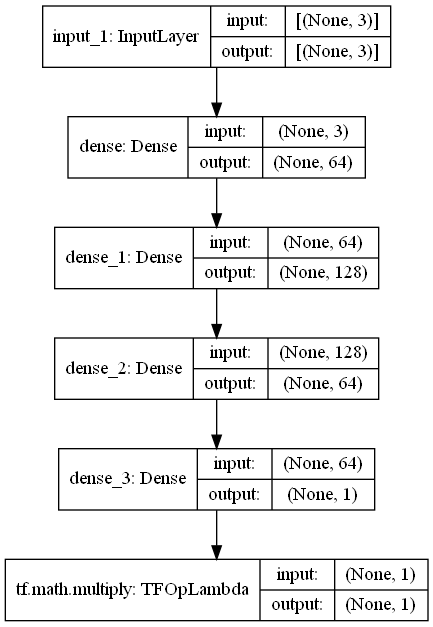
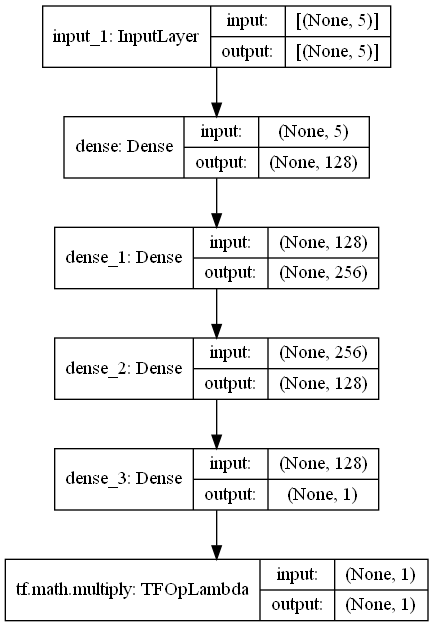
Implement two wheels

diff --git a/main.py b/main.py
@@ -116,7 +116,7 @@ class OUActionNoise:
 def policy(state, noise_object):
     sampled_actions = tf.squeeze(actor_model(state))
     if training:
-        noise = np.clip(noise_object(), -0.3, 0.3)
+        noise = np.clip(noise_object(), -1, 1)
         sampled_actions = (sampled_actions.numpy() + noise + np.random.normal(scale=0.3))
         #print(sampled_actions)
 
@@ -128,12 +128,12 @@ def policy(state, noise_object):
 actoooooor = True
 criticcccc = True
 def get_actor():
-    last_init = tf.random_uniform_initializer(minval=-0.003, maxval=0.003)
+    last_init = tf.random_uniform_initializer(minval=-0.03, maxval=0.03)
 
     inputs = layers.Input(shape=(NUM_STATES,))
-    out = layers.Dense(64, activation="relu")(inputs)
+    out = layers.Dense(128, activation="relu")(inputs)
+    out = layers.Dense(256, activation="relu")(out)
     out = layers.Dense(128, activation="relu")(out)
-    out = layers.Dense(64, activation="relu")(out)
     outputs = layers.Dense(1, activation="tanh", kernel_initializer=last_init)(out)
 
     outputs = outputs * UPPER_BOUND
@@ -148,17 +148,18 @@ def get_actor():
 
 def get_critic():
     state_input = layers.Input(shape=(NUM_STATES))
-    state_out = layers.Dense(32, activation="relu")(state_input)
-    state_out = layers.Dense(48, activation="relu")(state_out)
+    state_out = layers.Dense(64, activation="relu")(state_input)
+    state_out = layers.Dense(128, activation="relu")(state_out)
 
     action_inputs = layers.Input(shape=(NUM_ACTIONS))
-    action_out = layers.Dense(16, activation="relu")(action_inputs)
+    action_out = layers.Dense(64, activation="relu")(action_inputs)
 
     concat = layers.Concatenate()([state_out, action_out])
 
     out = layers.Dense(256, activation="relu")(concat)
-    out = layers.Dense(128 , activation="softmax")(out)
-    outputs = layers.Dense(1)(out)
+    out = layers.Dense(256 , activation="relu")(out)
+    out = layers.Dense(128 , activation="relu")(out)
+    outputs = layers.Dense(1, activation="softmax")(out)
 
     model = tf.keras.Model([state_input, action_inputs], outputs)
 
@@ -176,7 +177,7 @@ def get_state():
 
     # print(msg)
     # div = [30.0, 60.0, 40.0]
-    state = [float(data[i]) for i in range(3)]
+    state = [float(data[i]) for i in range(5)]
     state_list.append(state)
 
     global last_reward
@@ -201,7 +202,7 @@ def send_act(action):
 
 # Main
 
-NUM_STATES = 3
+NUM_STATES = 5
 NUM_ACTIONS = 1
 
 UPPER_BOUND = 5.0
@@ -230,7 +231,7 @@ actor_lr = 0.001
 critic_optimizer = tf.keras.optimizers.Adam(critic_lr)
 actor_optimizer = tf.keras.optimizers.Adam(actor_lr)
 
-total_episodes = 10000000
+total_episodes = 10000
 # Discount factor for future rewards
 gamma = 0.99
 # Used to update target networks
@@ -287,6 +288,7 @@ if state == STATE_TRAINING:
             send_act(action[0])
 
             state, reward, done = get_state()
+            #print(state)
 
             buffer.record((prev_state, action, reward, state))
             episodic_reward += reward
